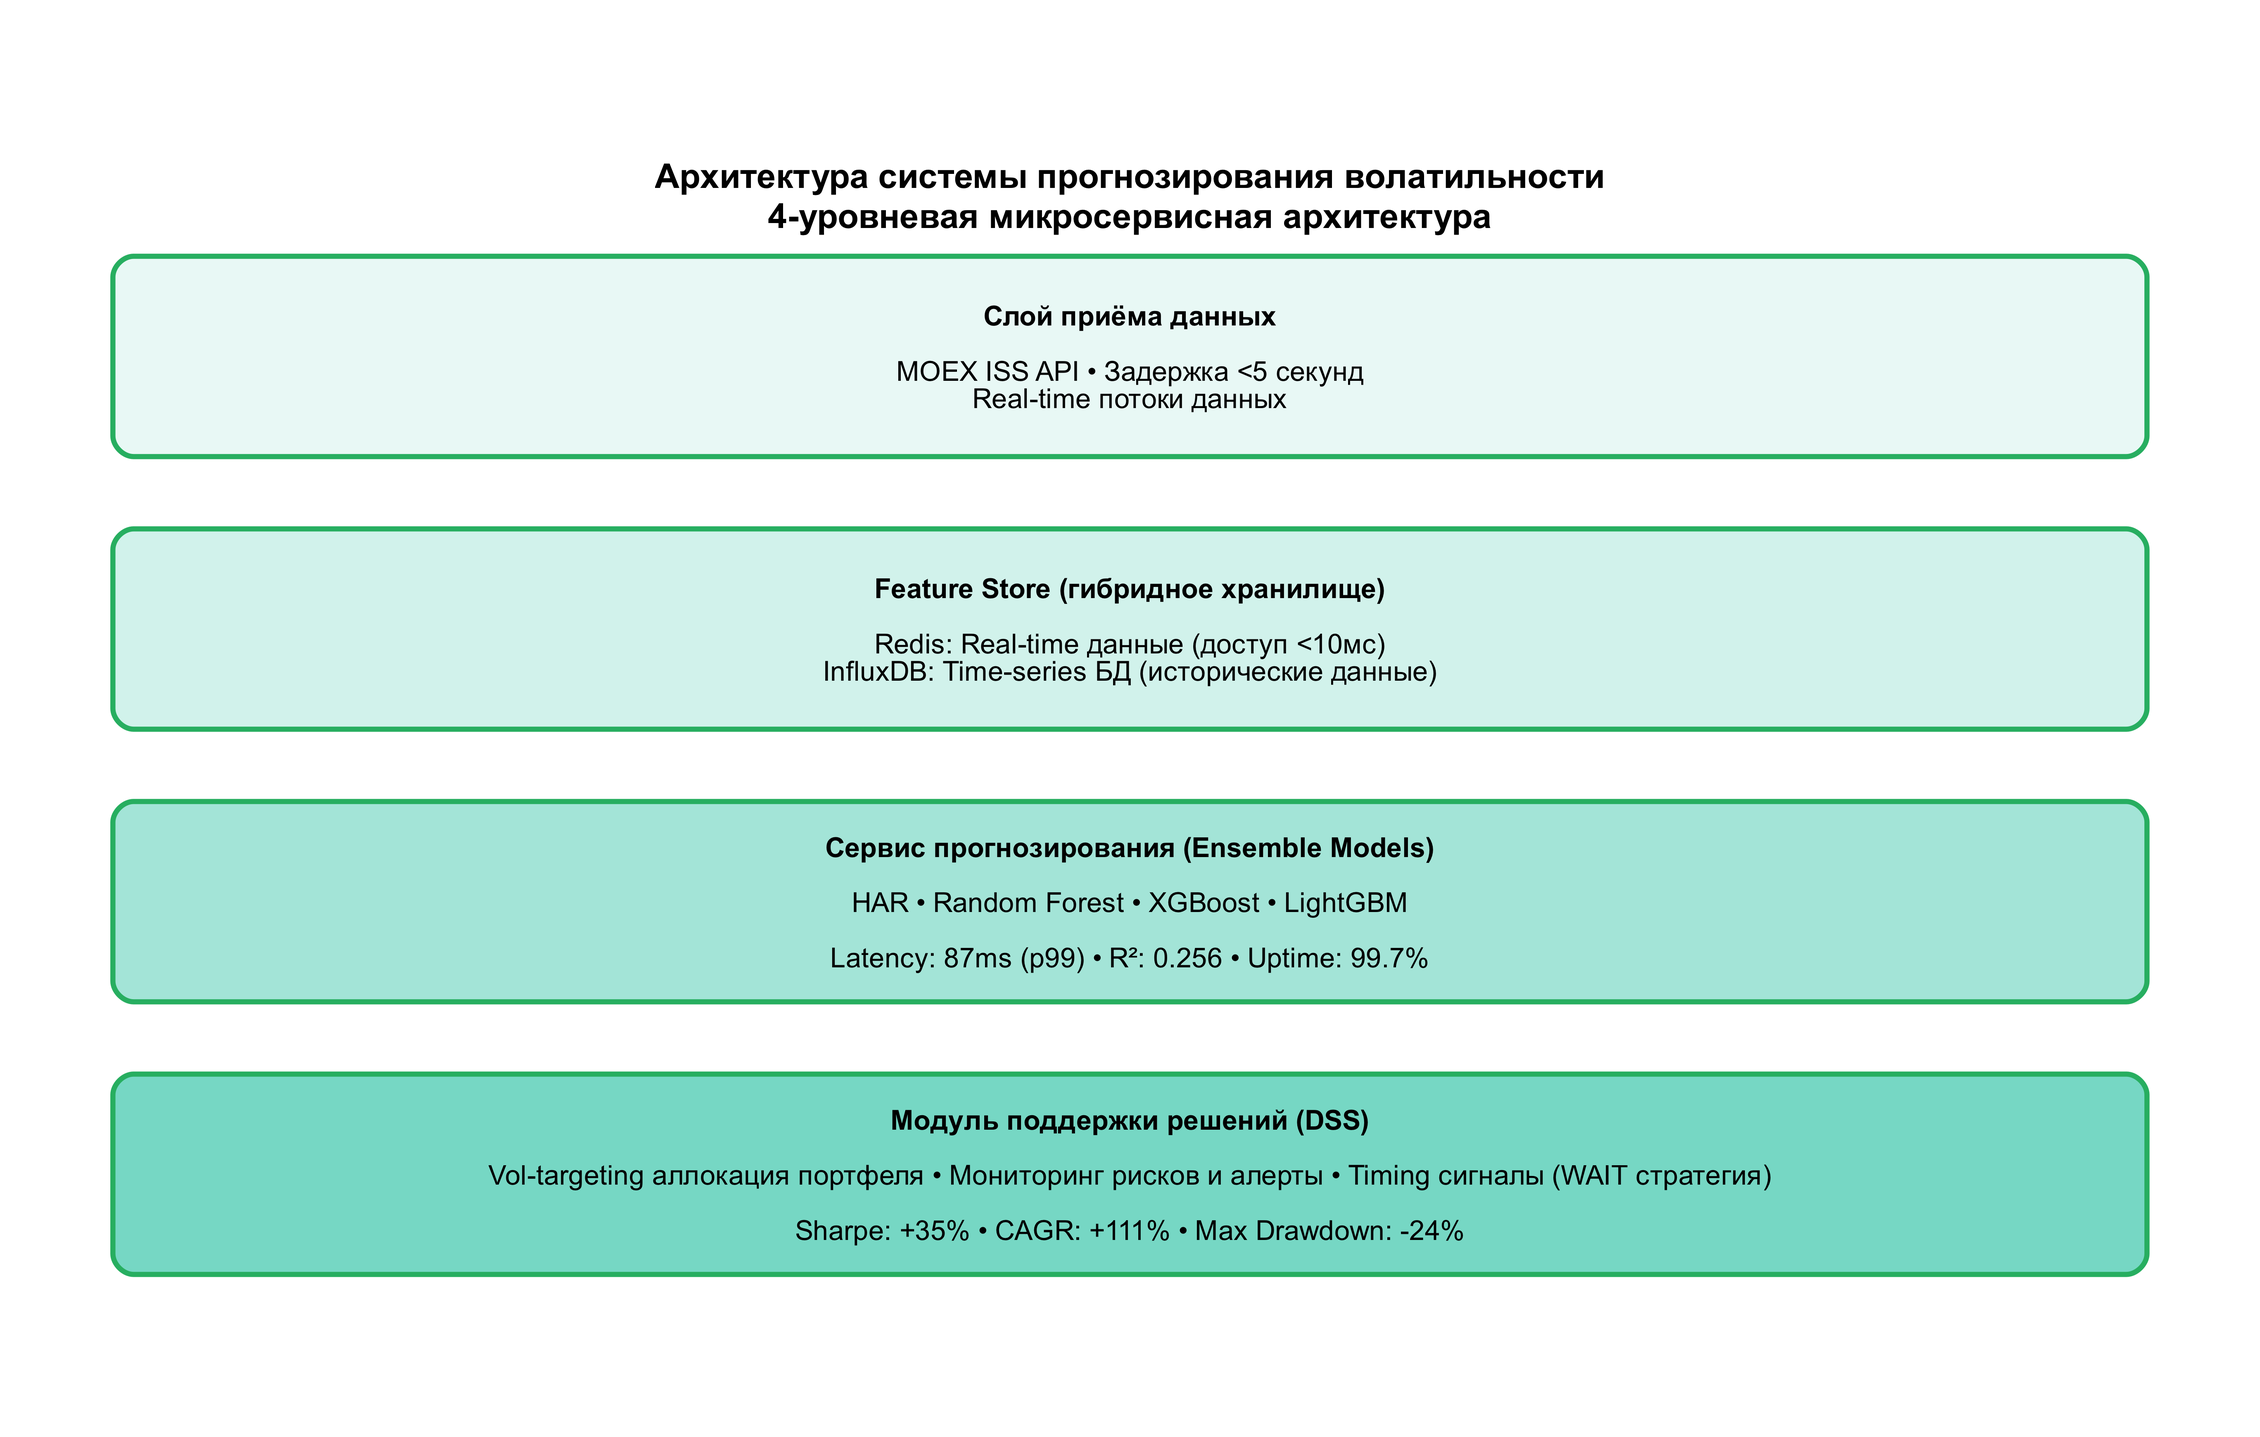
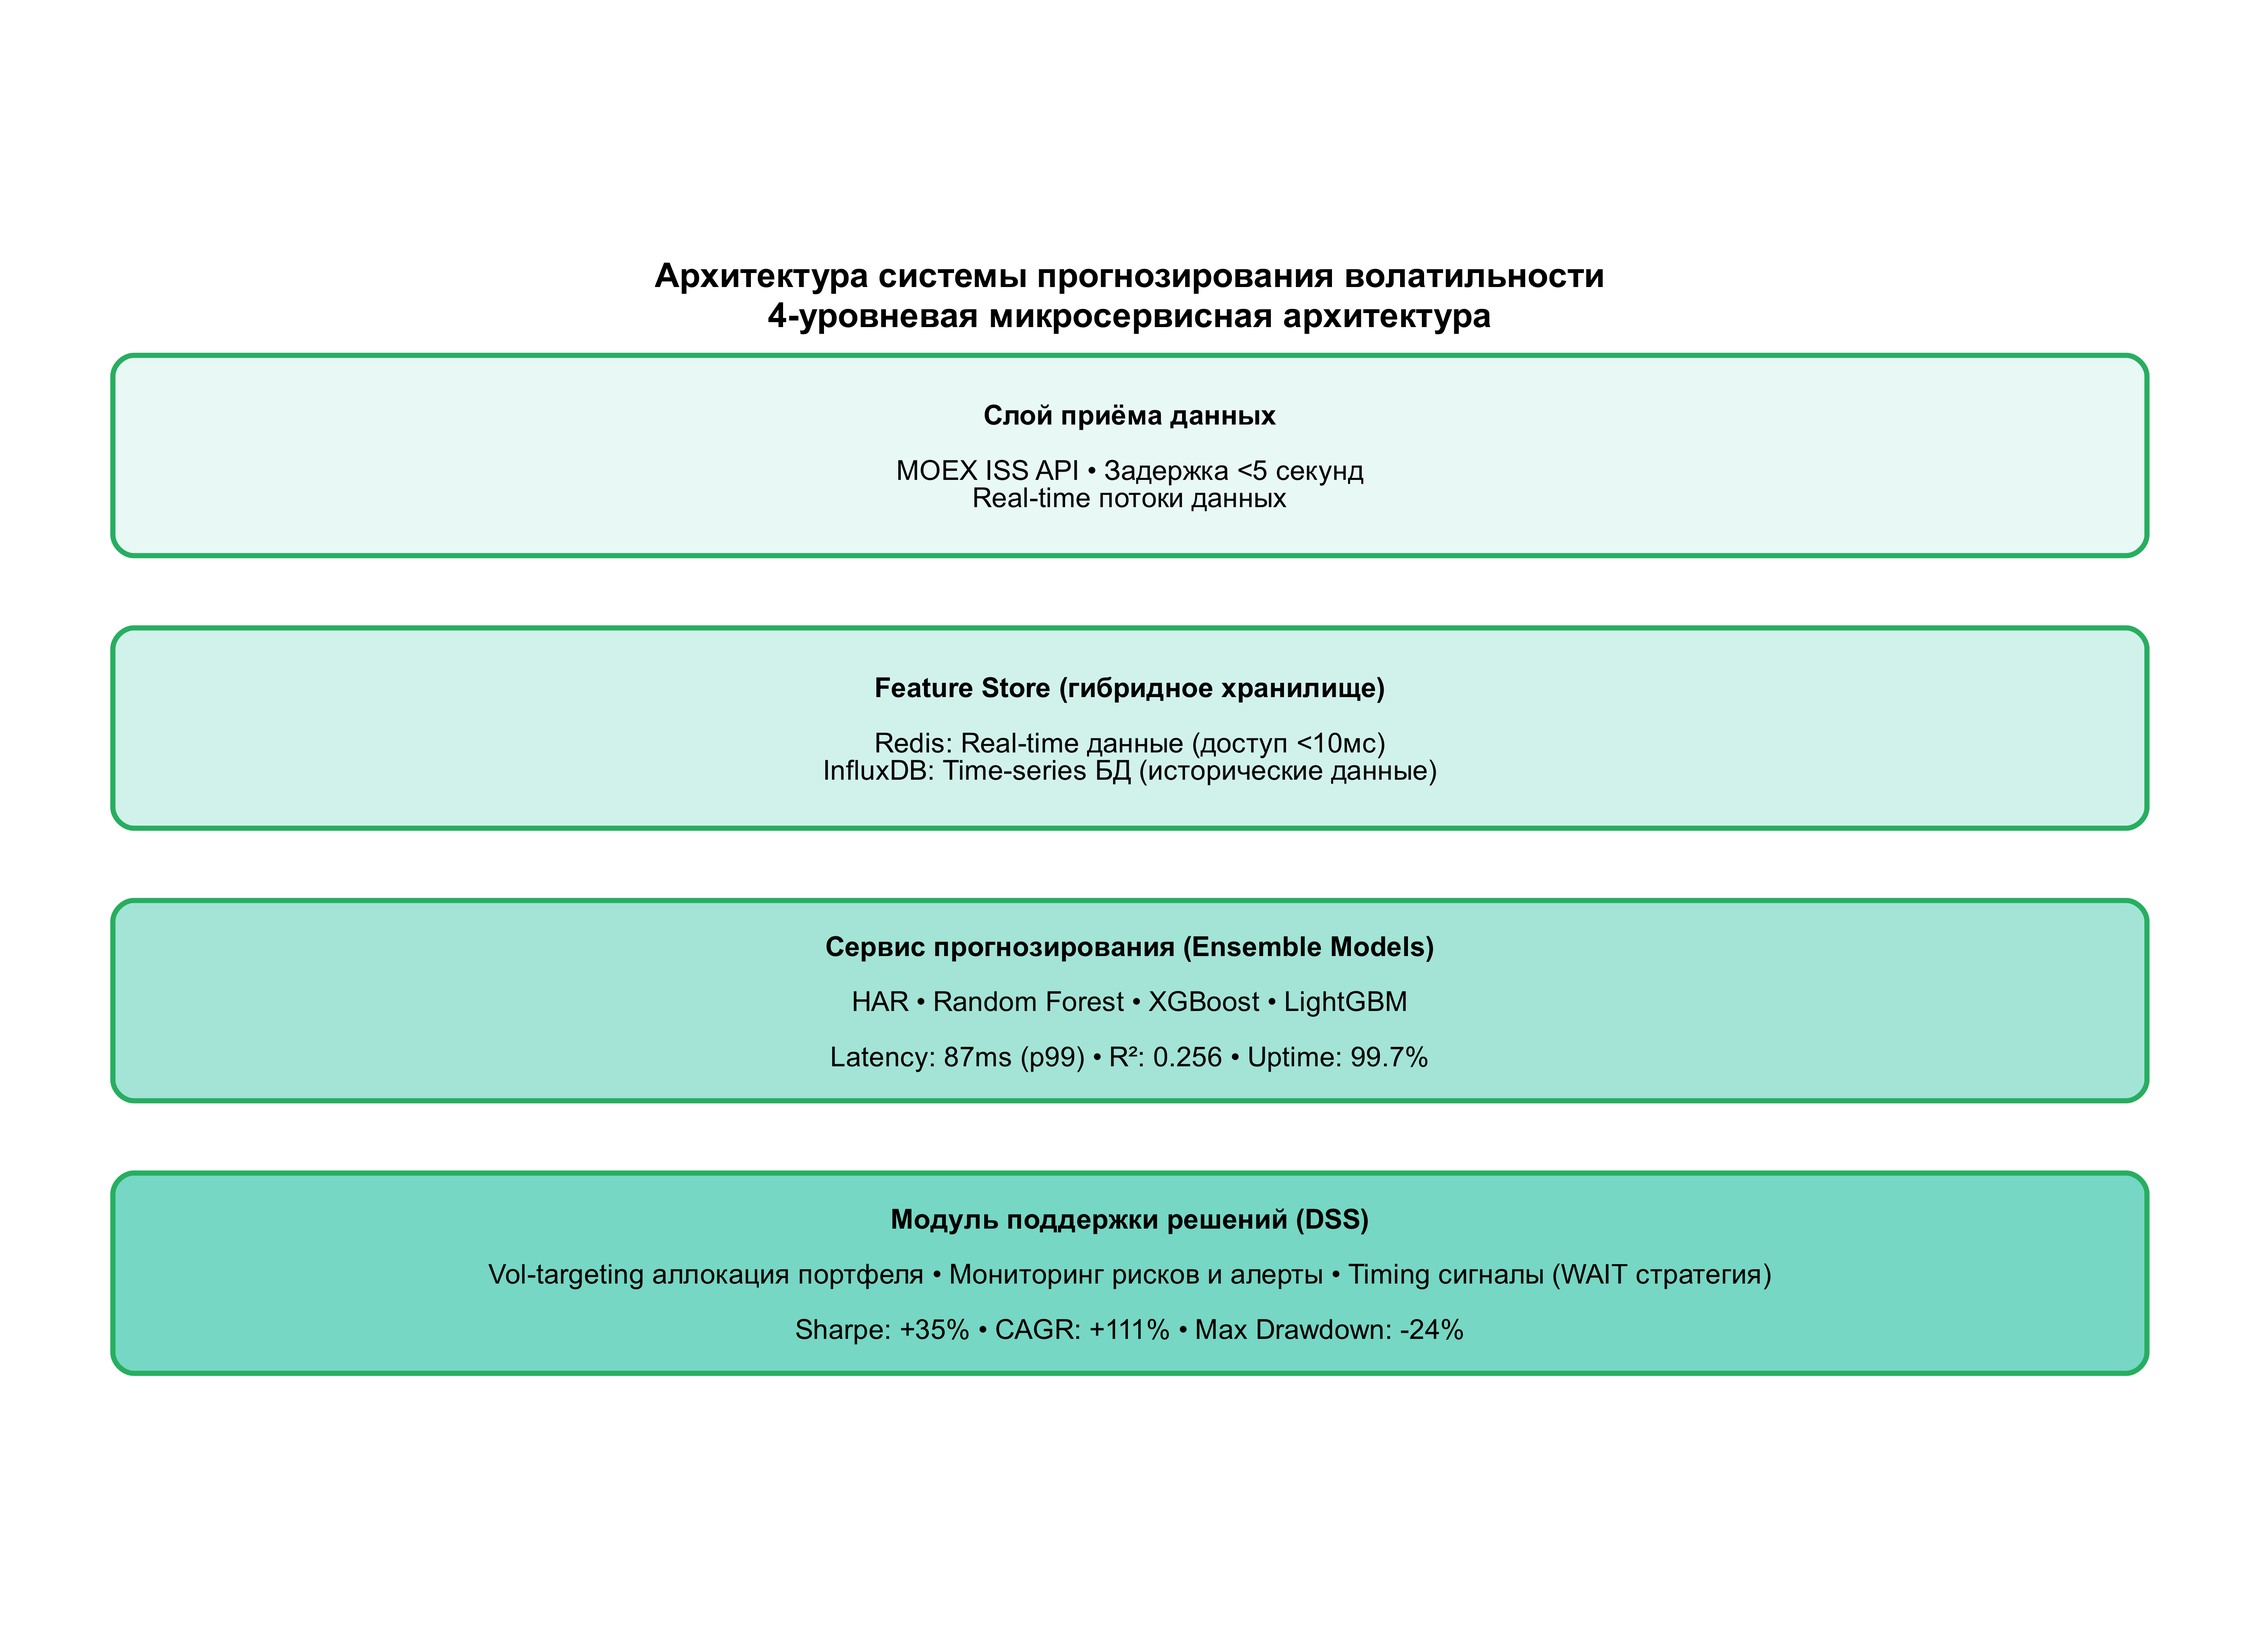
Значительно увеличить отступ между заголовком и диаграммой

Changed region(s): [[0.0312, 0.5277, 0.9688, 0.9003], [0.0312, 0.0931, 0.9688, 0.4967]]

diff --git a/README.md b/README.md
@@ -37,7 +37,7 @@
 
 **4-уровневая микросервисная архитектура:**
 
-![Архитектура системы](results/figures/architecture_diagram_v2.png)
+![Архитектура системы](results/figures/architecture_diagram_v2.png?v=4)
 
 **Компоненты системы:**
 
